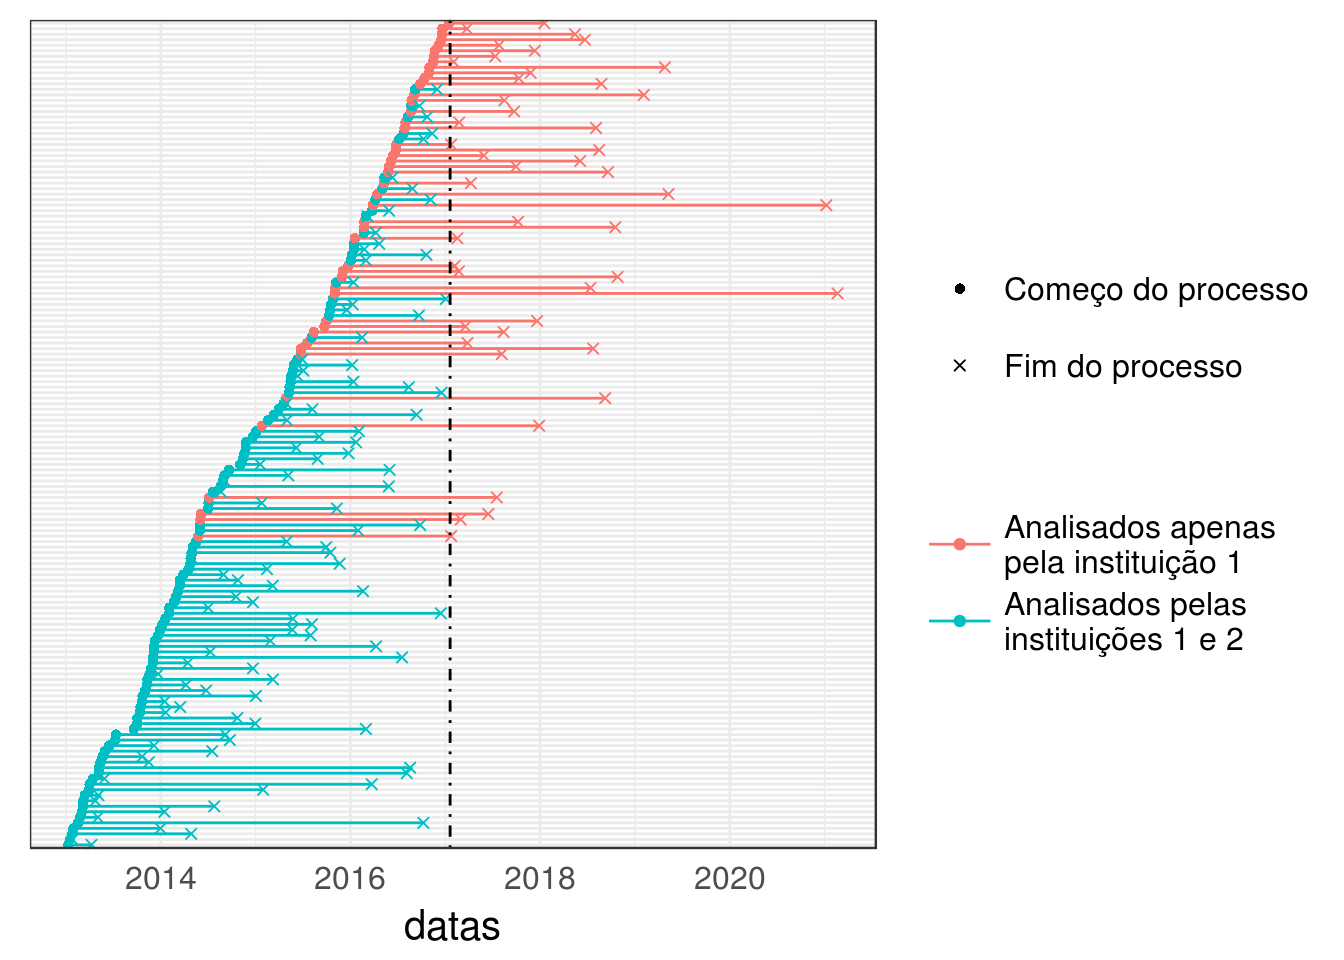
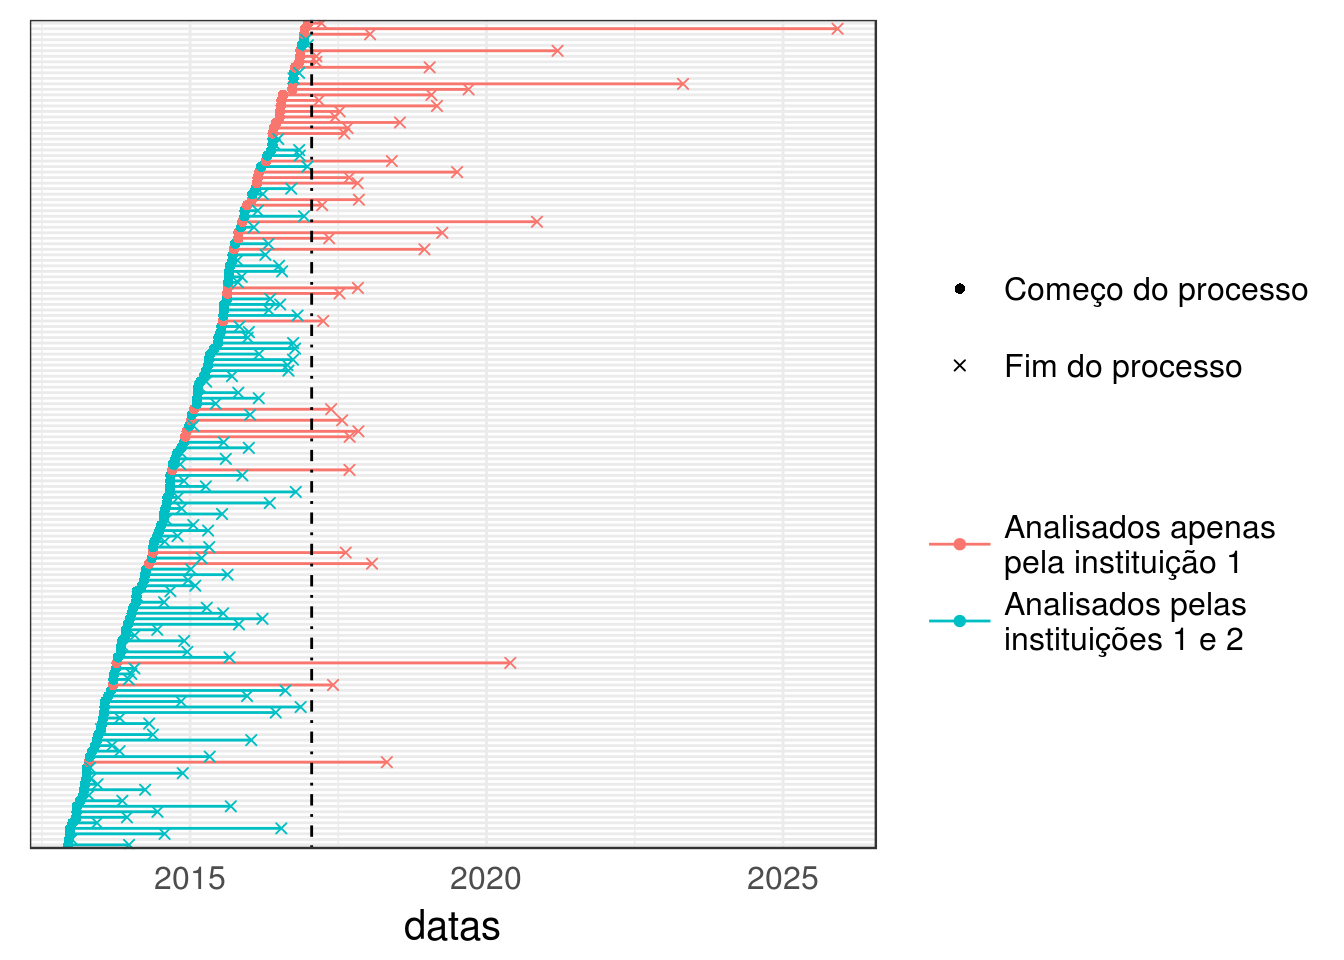
Update Site ABJ

diff --git a/blog/1/01/01/draft_1/index.html b/blog/1/01/01/draft_1/index.html
@@ -196,8 +196,8 @@
 </thead>
 <tbody>
 <tr class="odd">
-<td align="center">462.54</td>
-<td align="center">489.6</td>
+<td align="center">462.58</td>
+<td align="center">486.75</td>
 </tr>
 </tbody>
 </table>
@@ -207,7 +207,7 @@
 Figure 1: Histograma do tempo de duração simulado.
 </p>
 </div>
-<p>Agora suponha que duas instituições de pesquisa propõem estudos para medi-lo. As duas obterão um conjunto de processos, medirão as suas respectivas durações e tirarão conclusões a partir daí, sendo a diferença entre os dois estudos apenas a forma com que as amostras serão escolhidas. A primeira sugere que sejam analisados todos os processos distribuídos desde 27/02/1880, o começo dos registros disponíveis na nossa situação hipotético, até hoje 19/01/2017. Essa formulação caracteriza o estudo da instituição 1 como um estudo prospectivo. Já a segunda instituição sugere uma análise que abranja os processos terminados até hoje desde 27/02/1880, caracterizando um estudo retrospectivo. Em ambos os casos, caso sejam observados processos não terminados, as instituições concordam que eles devem ser analisados utilizando técnicas de análise de sobrevivência.</p>
+<p>Agora suponha que duas instituições de pesquisa propõem estudos para medi-lo. As duas obterão um conjunto de processos, medirão as suas respectivas durações e tirarão conclusões a partir daí, sendo a diferença entre os dois estudos apenas a forma com que as amostras serão escolhidas. A primeira sugere que sejam analisados todos os processos distribuídos desde 11/12/2012, o começo dos registros disponíveis na nossa situação hipotético, até hoje 19/01/2017. Essa formulação caracteriza o estudo da instituição 1 como um estudo prospectivo. Já a segunda instituição sugere uma análise que abranja os processos terminados até hoje desde 11/12/2012, caracterizando um estudo retrospectivo. Em ambos os casos, caso sejam observados processos não terminados, as instituições concordam que eles devem ser analisados utilizando técnicas de análise de sobrevivência.</p>
 <p>Um exemplo da realização das pesquisas é descrito na figura <a href="#fig:graph2">2</a>. Cada linha representa o ciclo de vida de um dos processos sendo estudados e as cores representam a sua presença ou ausência nos planos amostrais de cada uma das instituições de pesquisa. A linha tracejada representa a data de corte para a inclusão de processos na amostra da Instituição 2. Pelo gráfico, é evidente que a instituição 2 não leva em conta nenhum processo que ainda não tenha acabado.</p>
 <p>As diferenças nas estimativas obtidas está ilustrada na Tabela <a href="#tab:tab2">2</a> e na Figura <a href="#fig:graph3">3</a>. Como se vê, as médias obtidas pela instituição 2 são muito menores e, além disso, a cauda da distribuição do tempo de duração é mais leve do que a verdadeira.</p>
 <div class="figure" style="text-align: center"><span id="fig:graph2"></span>
@@ -228,13 +228,13 @@ Figure 2: Comparação dos processos observados por cada uma das instituições.
 <tbody>
 <tr class="odd">
 <td align="left">Instituição 1</td>
-<td align="center">461.16</td>
-<td align="center">389.55</td>
+<td align="center">470.92</td>
+<td align="center">563.37</td>
 </tr>
 <tr class="even">
 <td align="left">Instituição 2</td>
-<td align="center">325.93</td>
-<td align="center">285.61</td>
+<td align="center">301.27</td>
+<td align="center">301.22</td>
 </tr>
 <tr class="odd">
 <td align="left">Valores reais</td>
